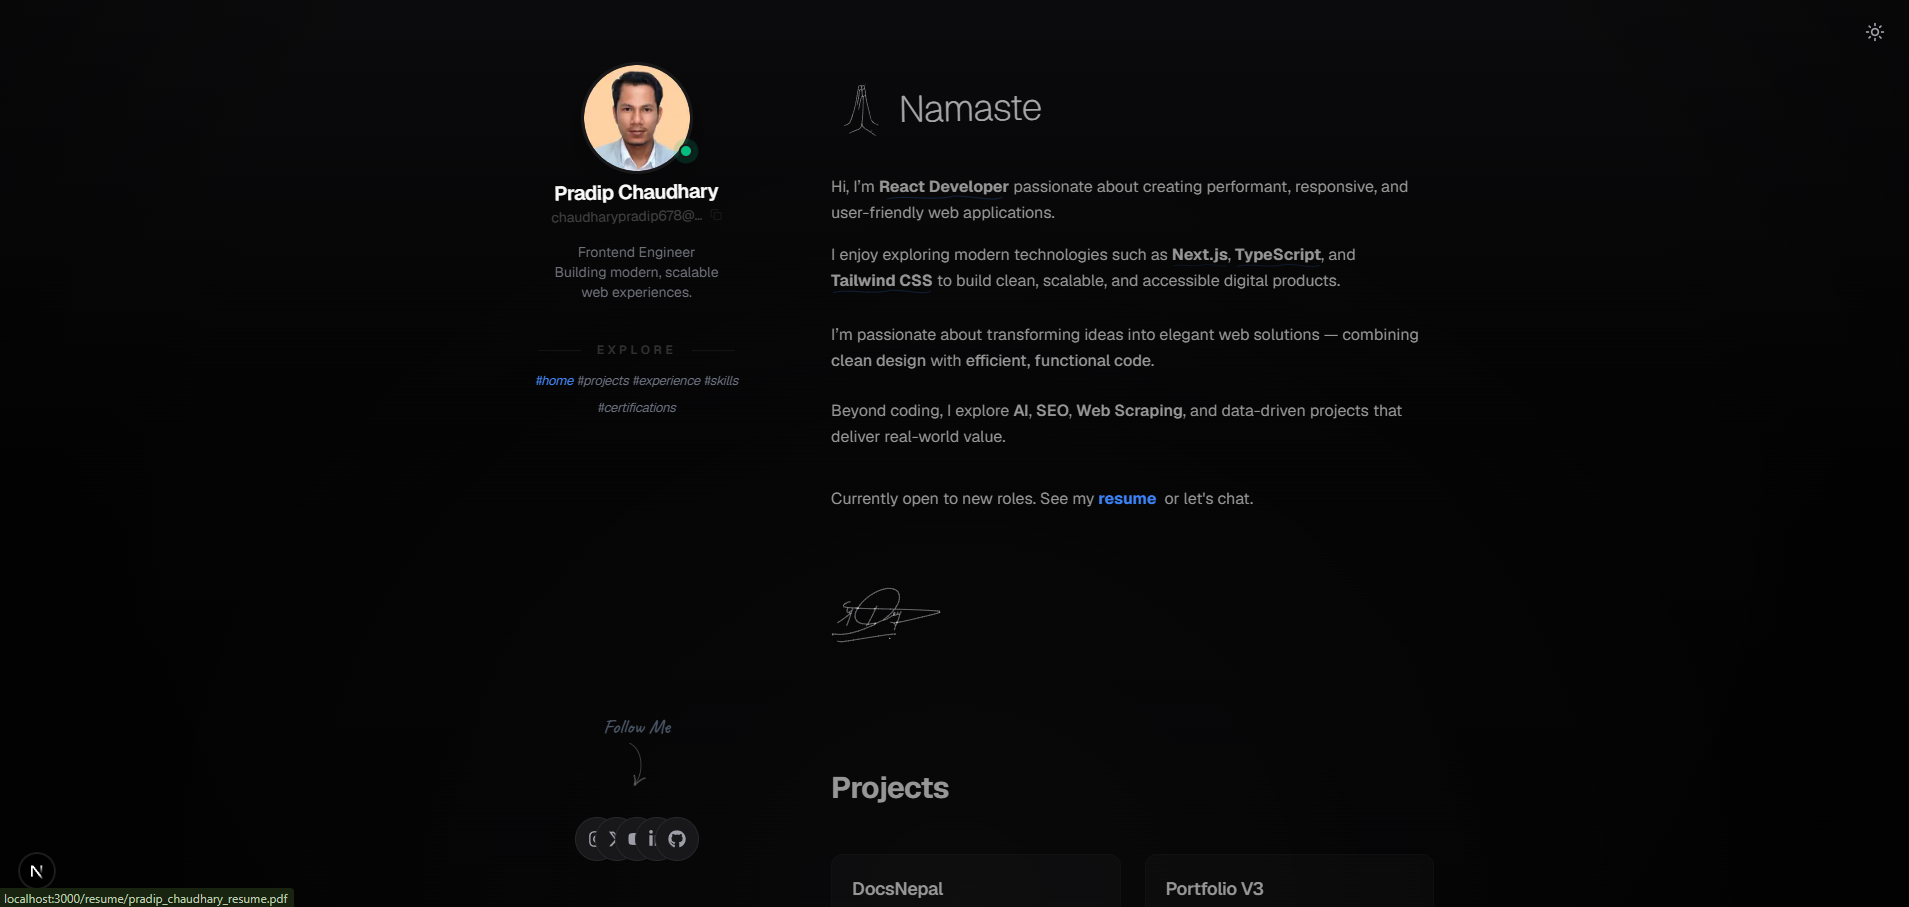
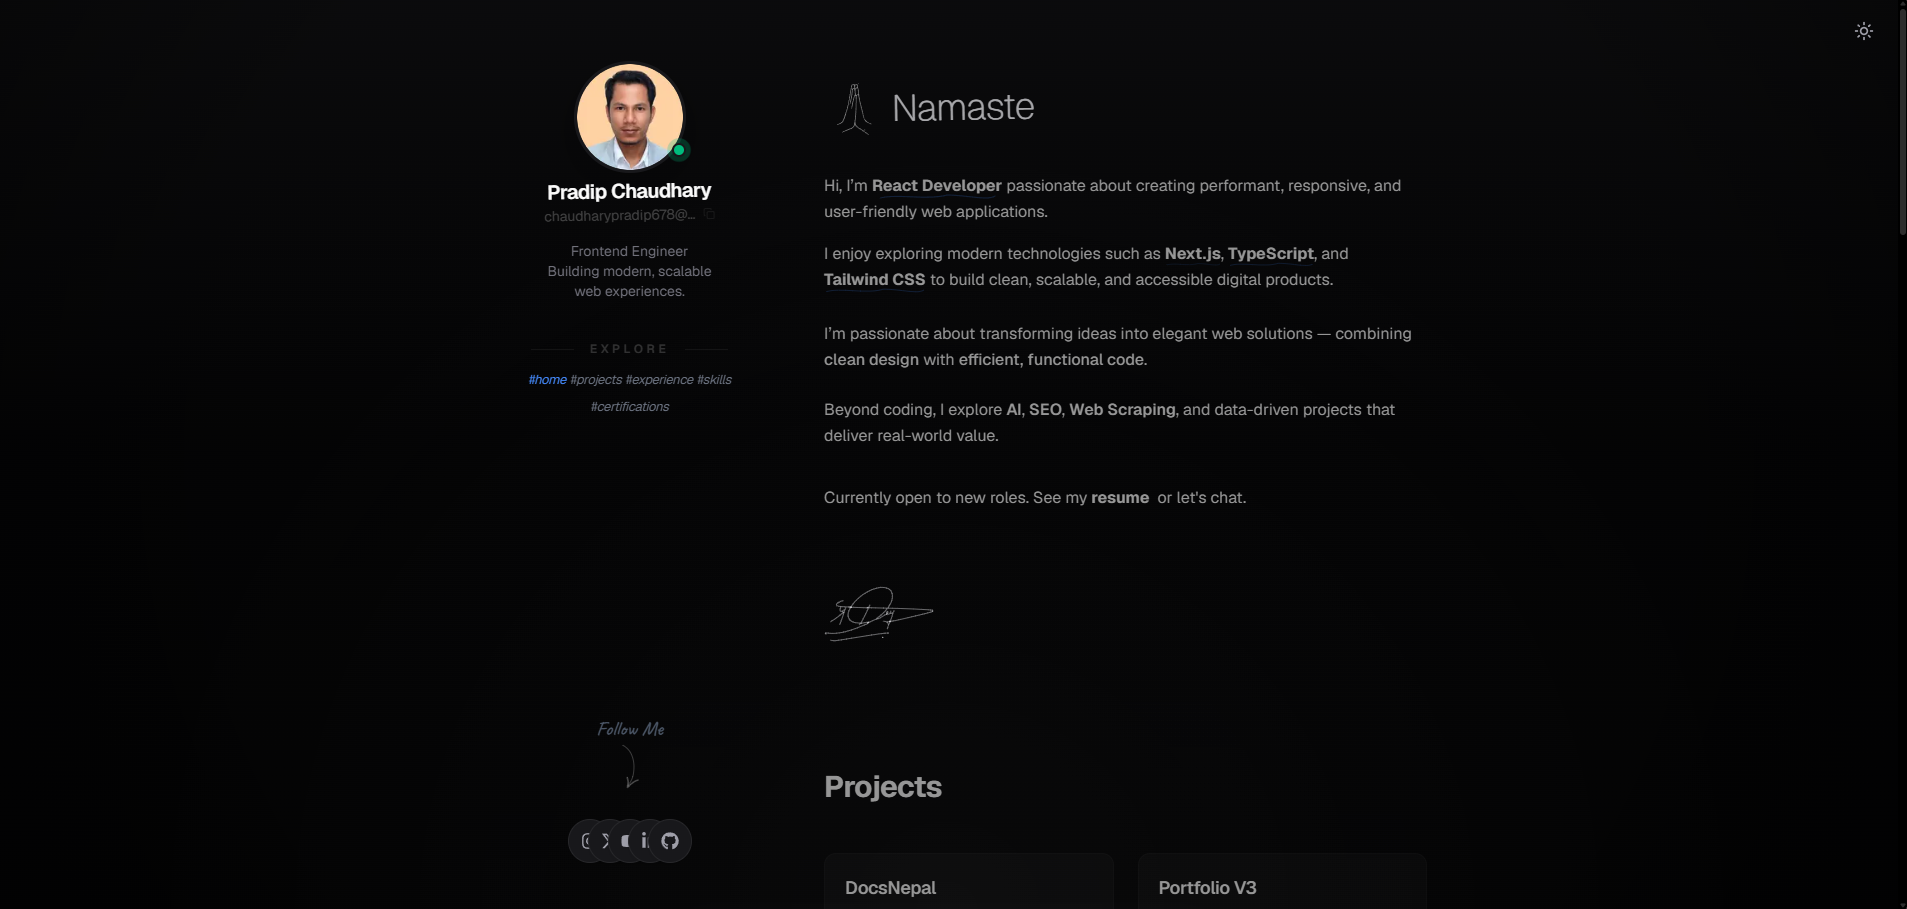
fixed readme.md file thumbnail image path

diff --git a/README.md b/README.md
@@ -2,7 +2,7 @@
 
 Portfolio v3 is the third generation of my personal developer portfolio, designed to showcase my technical expertise, engineering projects, professional experience, and continuous learning journey in modern web development.
 
-![Portfolio Banner](https://www.pradipchaudhary.com.np/screenshot.png)
+![Portfolio Banner](https://www.pradipchaudhary.com.np/images/screenshot.png)
 
 Built with a strong focus on performance, accessibility, SEO, and user experience, this portfolio reflects the standards I apply when developing production-ready applications. The website serves as a central hub where recruiters, hiring managers, clients, and fellow developers can explore my work, technical skills, open-source contributions, and software engineering approach.
 
